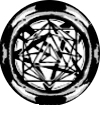
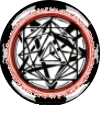
Added hero coin, improved sheets

diff --git a/src/templates/actor/tabs/character-primary-tab.html b/src/templates/actor/tabs/character-primary-tab.html
@@ -19,7 +19,7 @@
         {{localizeConcat "ICRPG.attributesShort." ../attributeName}}
       </div>
       <div class="dice-container">
-        <span>{{defaultValue attribute.total ""}}</span>
+        <span>{{defaultValue attribute.total 0}}</span>
         <img src="systems/icrpgme/assets/ui/dice-transparent/d20.webp">
       </div>
       <div class="icrpg-mods-values">
@@ -56,7 +56,7 @@
         {{localizeConcat "ICRPG.effectDice." ../effectName}}
       </div>
       <div class="dice-container" style="margin-left: 2px">
-        <span>{{defaultValue effect.total ""}}</span>
+        <span>{{defaultValue effect.total 0}}</span>
         <img src="systems/icrpgme/assets/ui/dice-transparent/{{../die}}.webp">
       </div>
       <div class="icrpg-mods-values">
@@ -156,7 +156,14 @@
         </div>
         <div>
           <div class="ff-header c-white t-center">{{localize "ICRPG.herocoin"}}</div>
-          <img class="hoverable" src="systems/icrpgme/assets/ui/hero-coin.webp" style="bottom: -23px;">
+          <div>
+            {{#if system.heroCoin}}
+              <img class="hoverable" src="systems/icrpgme/assets/ui/hero-coin-active.webp" style="bottom: -23px;">
+            {{else}}
+              <img class="hoverable" src="systems/icrpgme/assets/ui/hero-coin.webp" style="bottom: -23px;">
+            {{/if}}
+            <input type="checkbox" name="system.heroCoin" {{checked system.heroCoin}}>
+          </div>
         </div>
         <div style="position: relative">
           <div class="ff-header c-white t-center">{{localize "ICRPG.dying"}}</div>

diff --git a/src/templates/actor/character-sheet.html b/src/templates/actor/character-sheet.html
@@ -14,7 +14,7 @@
   </section>
 
   <nav class="icrpg-sheet-nav" data-group="primary-tabs">
-    <a class="icrpg-sheet-bar" data-group="primary-tabs" data-tab="primary">Character</a>
-    <a class="icrpg-sheet-bar" data-group="primary-tabs" data-tab="loot-abilities">Loot & Abilities</a>
+    <a class="icrpg-sheet-bar" data-group="primary-tabs" data-tab="primary">{{localize "ICRPG.tabs.character"}}</a>
+    <a class="icrpg-sheet-bar" data-group="primary-tabs" data-tab="loot-abilities">{{localize "ICRPG.tabs.lootAbilities"}}</a>
   </nav>
 </form>

diff --git a/src/styles/sheets.scss b/src/styles/sheets.scss
@@ -194,6 +194,17 @@
       position: absolute;
       transform: translate(+15%, 0);
     }
+
+    input[type='checkbox'] {
+      z-index: 2;
+      @include hover();
+      width: 62px;
+      height: 62px;
+      position: relative;
+      left: 6px;
+      top: 15px;
+      opacity: 0;
+    }
   }
 
   .icrpg-defense-box {
@@ -249,7 +260,7 @@
 }
 .icrpg-sheet-nav {
   display: flex;
-  width: 95%;
+  width: calc(100% - 50px);
 }
 
 .icrpg-sheet-bar {

diff --git a/src/module/actor/data-model.js b/src/module/actor/data-model.js
@@ -43,6 +43,7 @@ export class ICRPGActorDataModel extends foundry.abstract.DataModel {
         ultimate: attributef(9),
       }),
       dyingRounds: nf({ min: 0, max: 9 }),
+      heroCoin: new f.BooleanField({ required: true, initial: false }),
     };
     return schema;
   }
